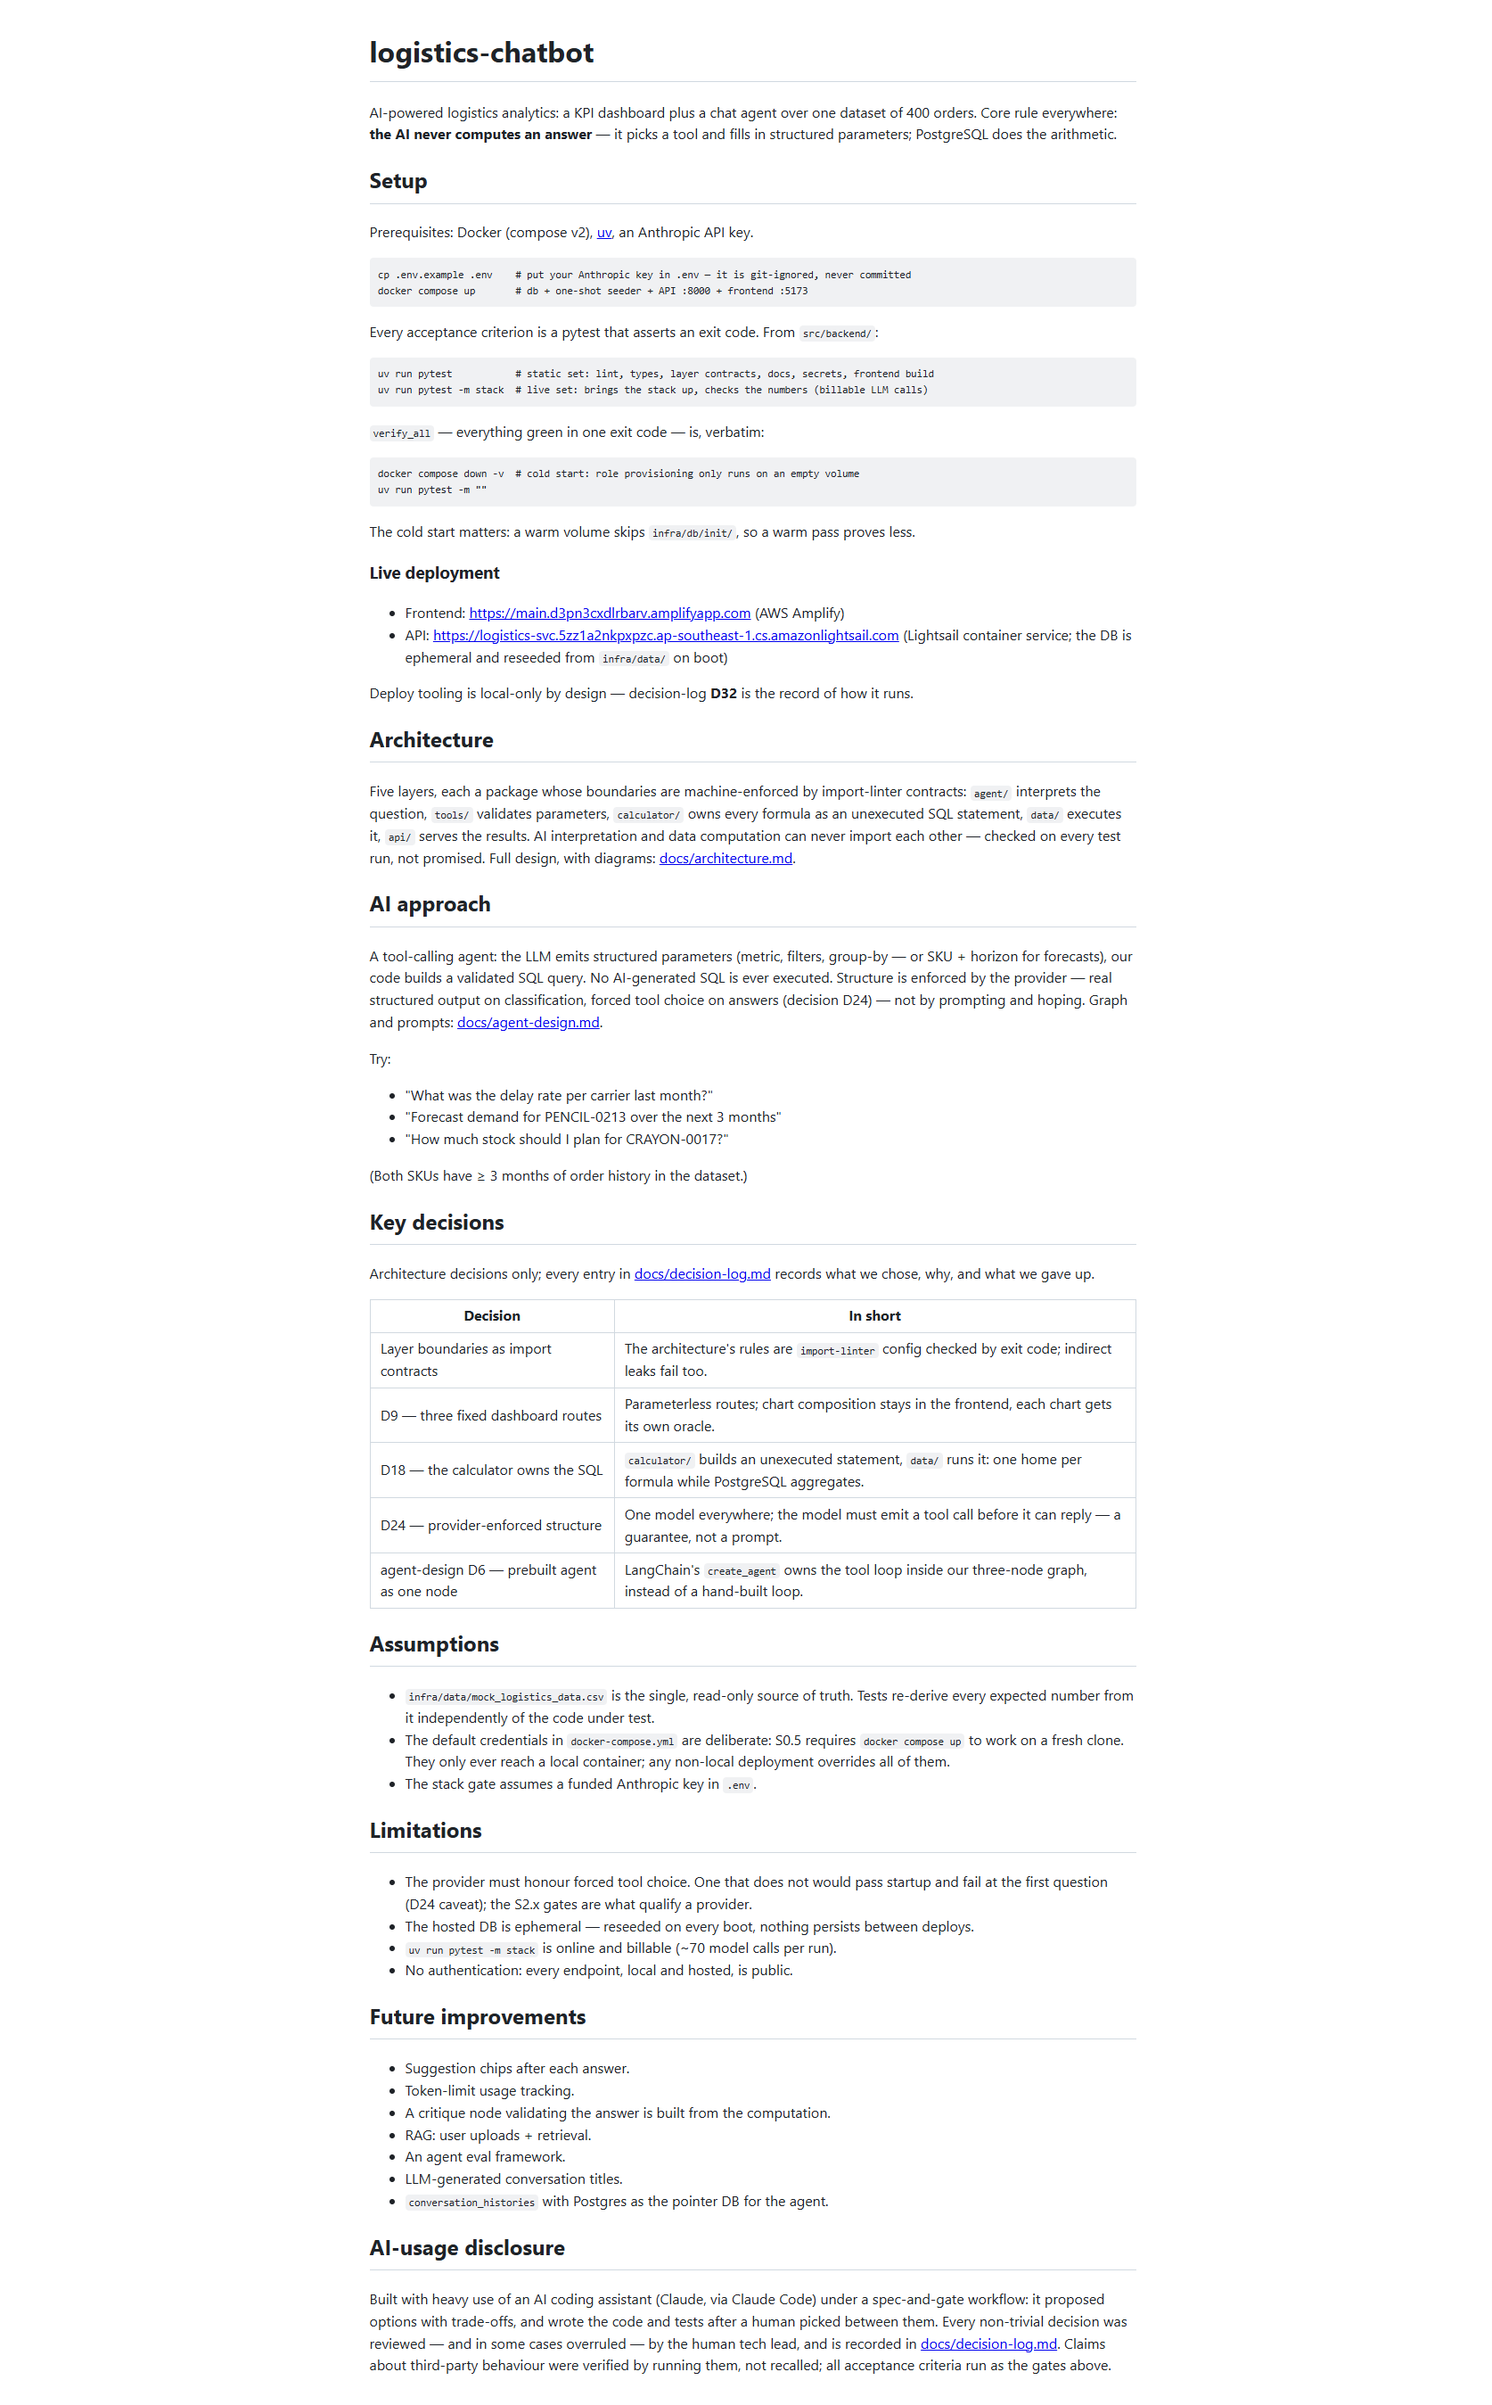
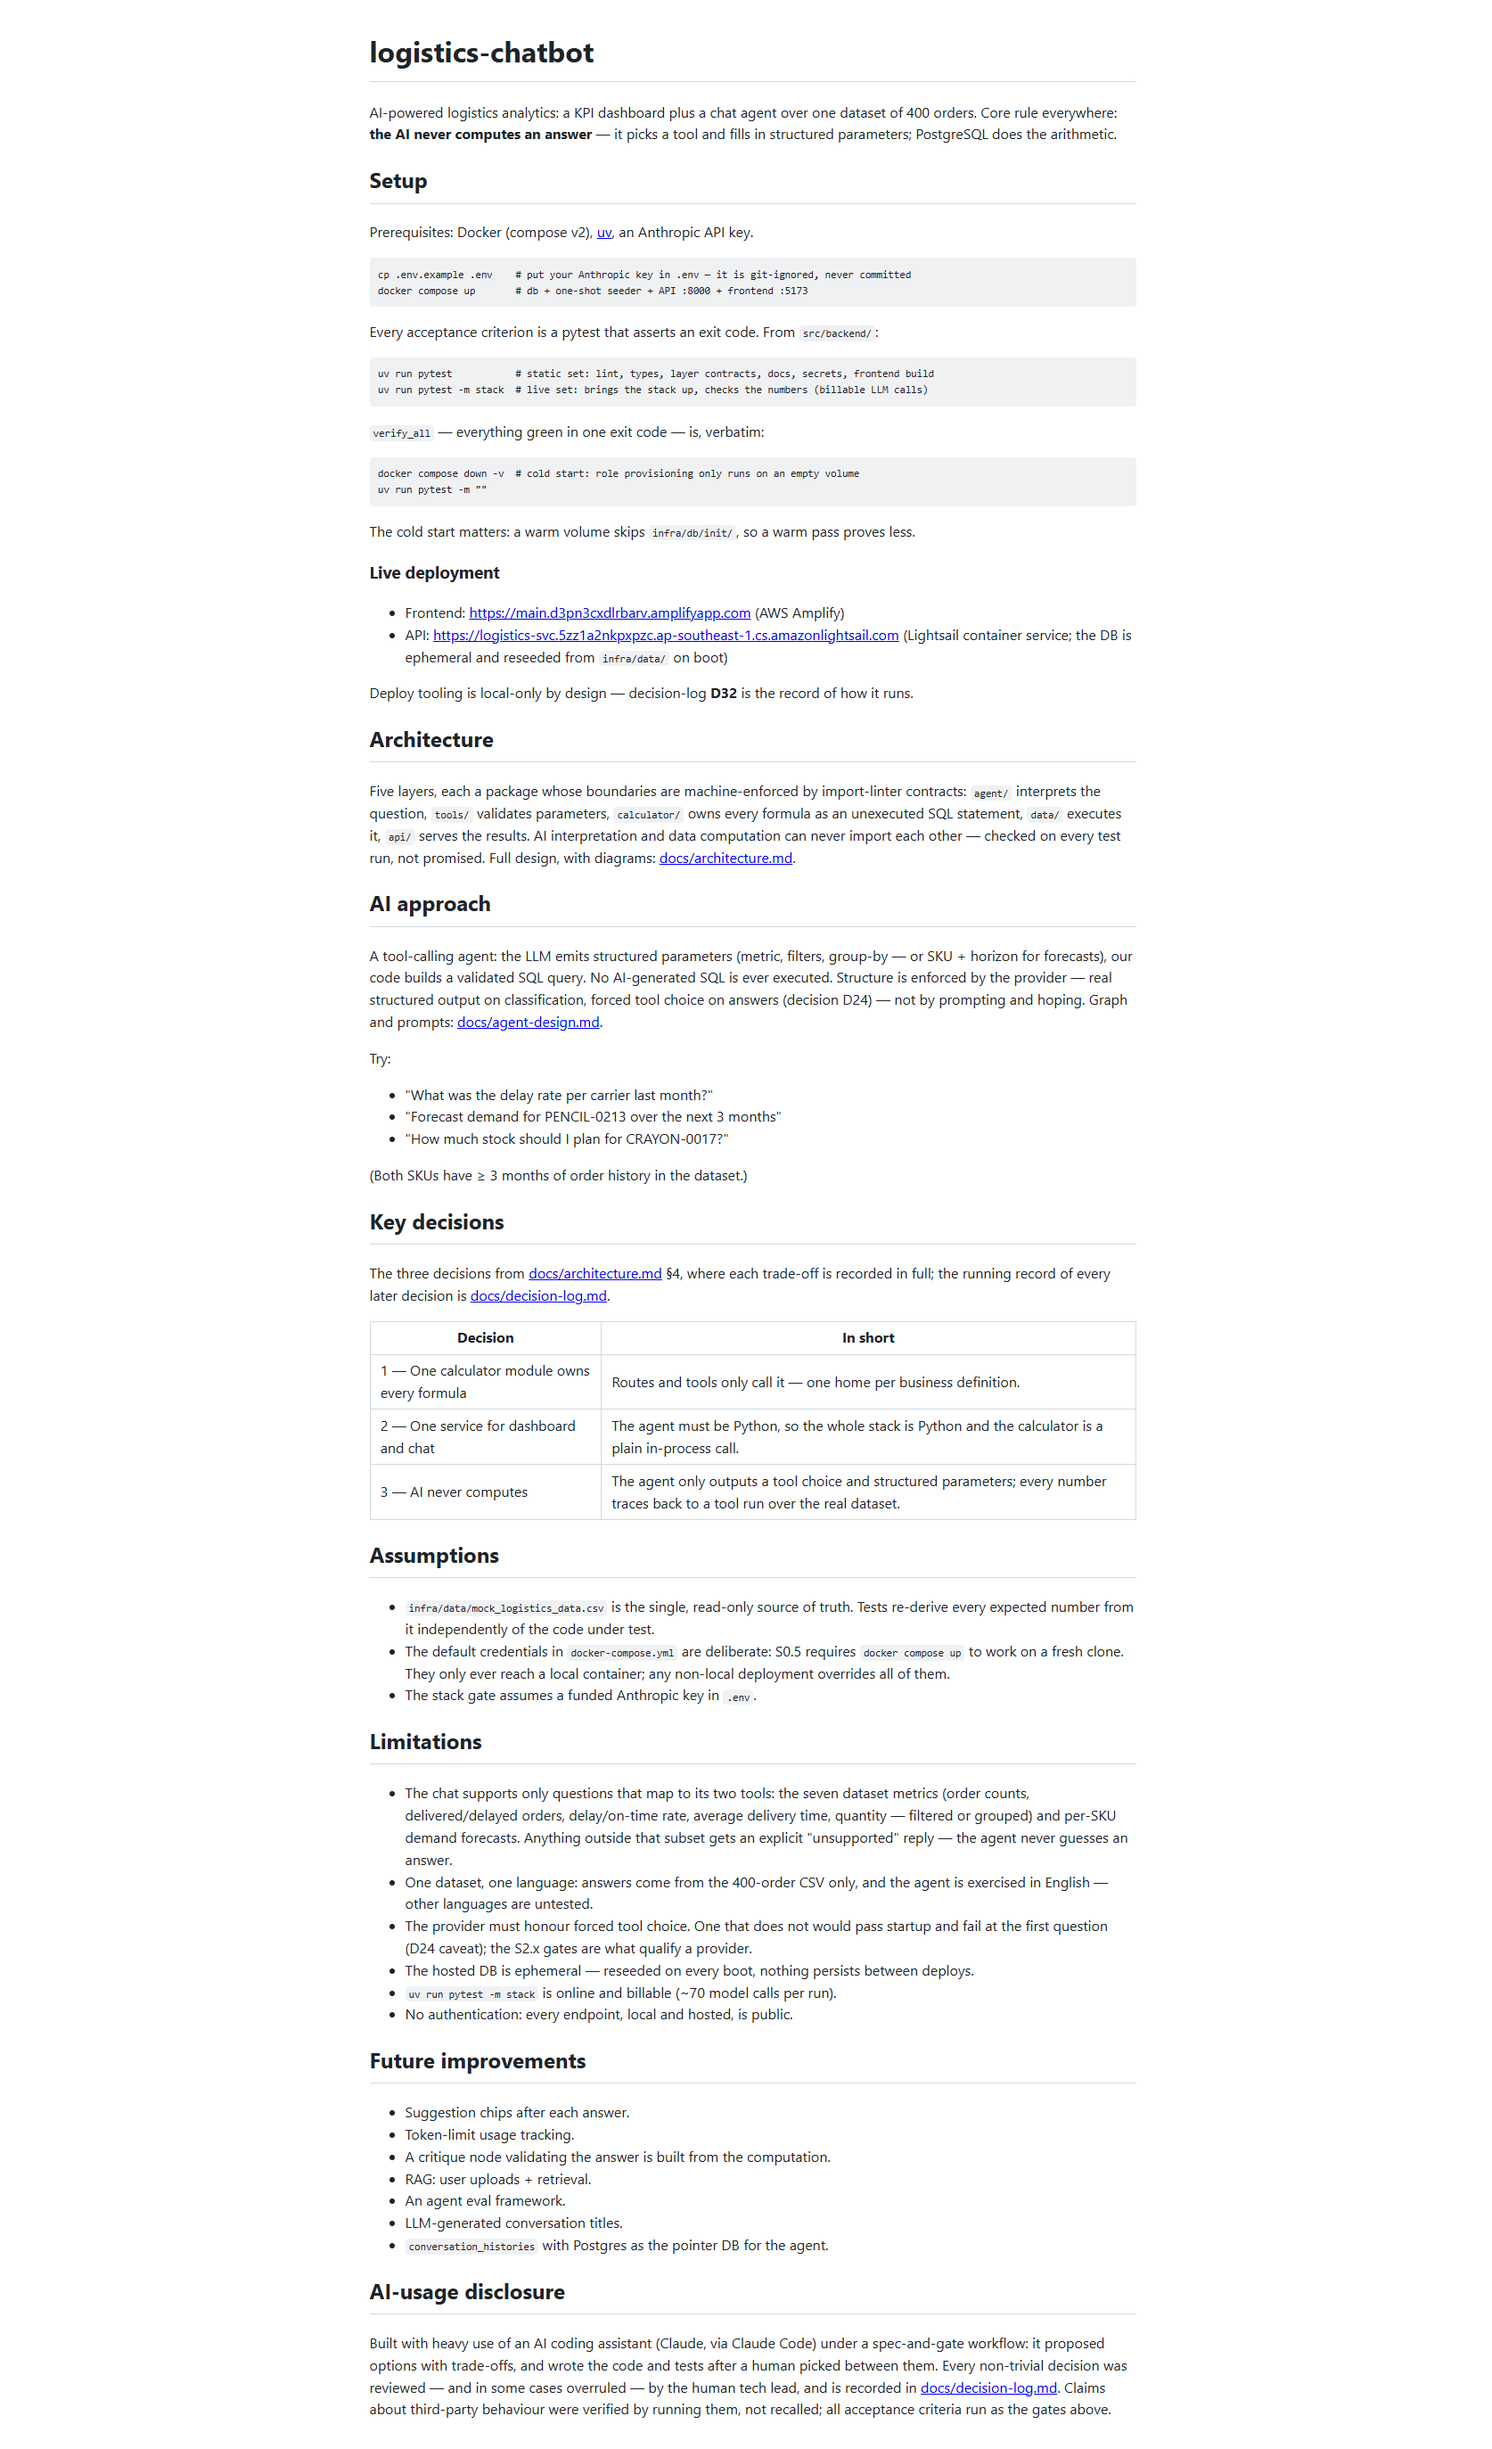
docs(readme): key decisions = the 3 from architecture.md; limitations lead with supported question subset

Changed region(s): [[0.2485, 0.0311, 0.7455, 0.9967]]

diff --git a/README.md b/README.md
@@ -64,16 +64,15 @@ Try:
 
 ## Key decisions
 
-Architecture decisions only; every entry in [docs/decision-log.md](docs/decision-log.md)
-records what we chose, why, and what we gave up.
+The three decisions from [docs/architecture.md](docs/architecture.md) §4, where each
+trade-off is recorded in full; the running record of every later decision is
+[docs/decision-log.md](docs/decision-log.md).
 
 | Decision | In short |
 |---|---|
-| Layer boundaries as import contracts | The architecture's rules are `import-linter` config checked by exit code; indirect leaks fail too. |
-| D9 — three fixed dashboard routes | Parameterless routes; chart composition stays in the frontend, each chart gets its own oracle. |
-| D18 — the calculator owns the SQL | `calculator/` builds an unexecuted statement, `data/` runs it: one home per formula while PostgreSQL aggregates. |
-| D24 — provider-enforced structure | One model everywhere; the model must emit a tool call before it can reply — a guarantee, not a prompt. |
-| agent-design D6 — prebuilt agent as one node | LangChain's `create_agent` owns the tool loop inside our three-node graph, instead of a hand-built loop. |
+| 1 — One calculator module owns every formula | Routes and tools only call it — one home per business definition. |
+| 2 — One service for dashboard and chat | The agent must be Python, so the whole stack is Python and the calculator is a plain in-process call. |
+| 3 — AI never computes | The agent only outputs a tool choice and structured parameters; every number traces back to a tool run over the real dataset. |
 
 ## Assumptions
 
@@ -86,6 +85,12 @@ records what we chose, why, and what we gave up.
 
 ## Limitations
 
+- The chat supports only questions that map to its two tools: the seven dataset metrics
+  (order counts, delivered/delayed orders, delay/on-time rate, average delivery time,
+  quantity — filtered or grouped) and per-SKU demand forecasts. Anything outside that
+  subset gets an explicit "unsupported" reply — the agent never guesses an answer.
+- One dataset, one language: answers come from the 400-order CSV only, and the agent is
+  exercised in English — other languages are untested.
 - The provider must honour forced tool choice. One that does not would pass startup and
   fail at the first question (D24 caveat); the S2.x gates are what qualify a provider.
 - The hosted DB is ephemeral — reseeded on every boot, nothing persists between deploys.
